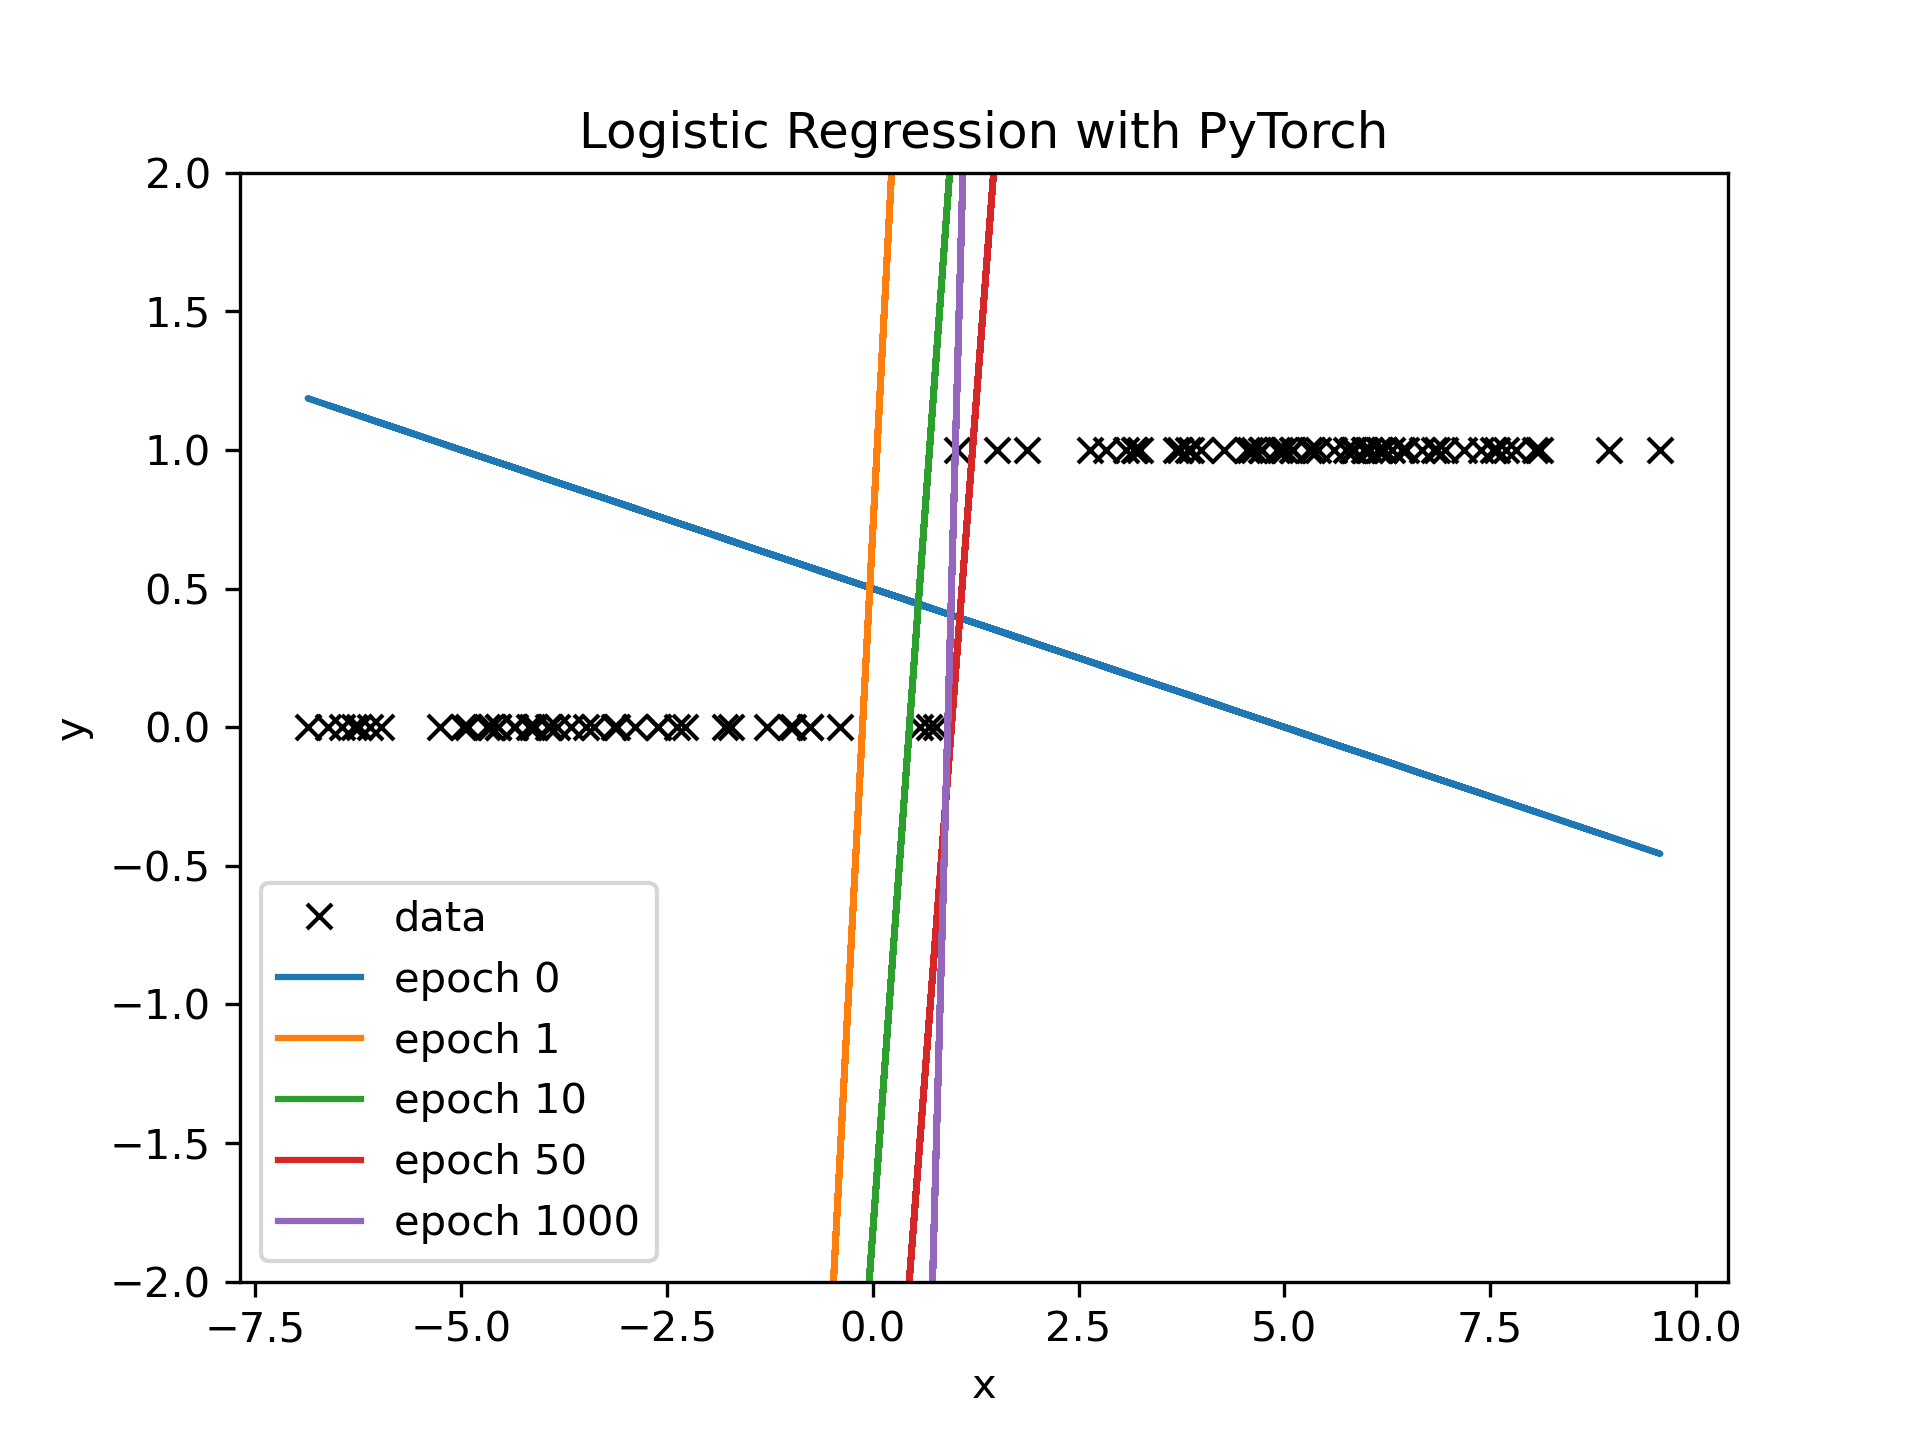
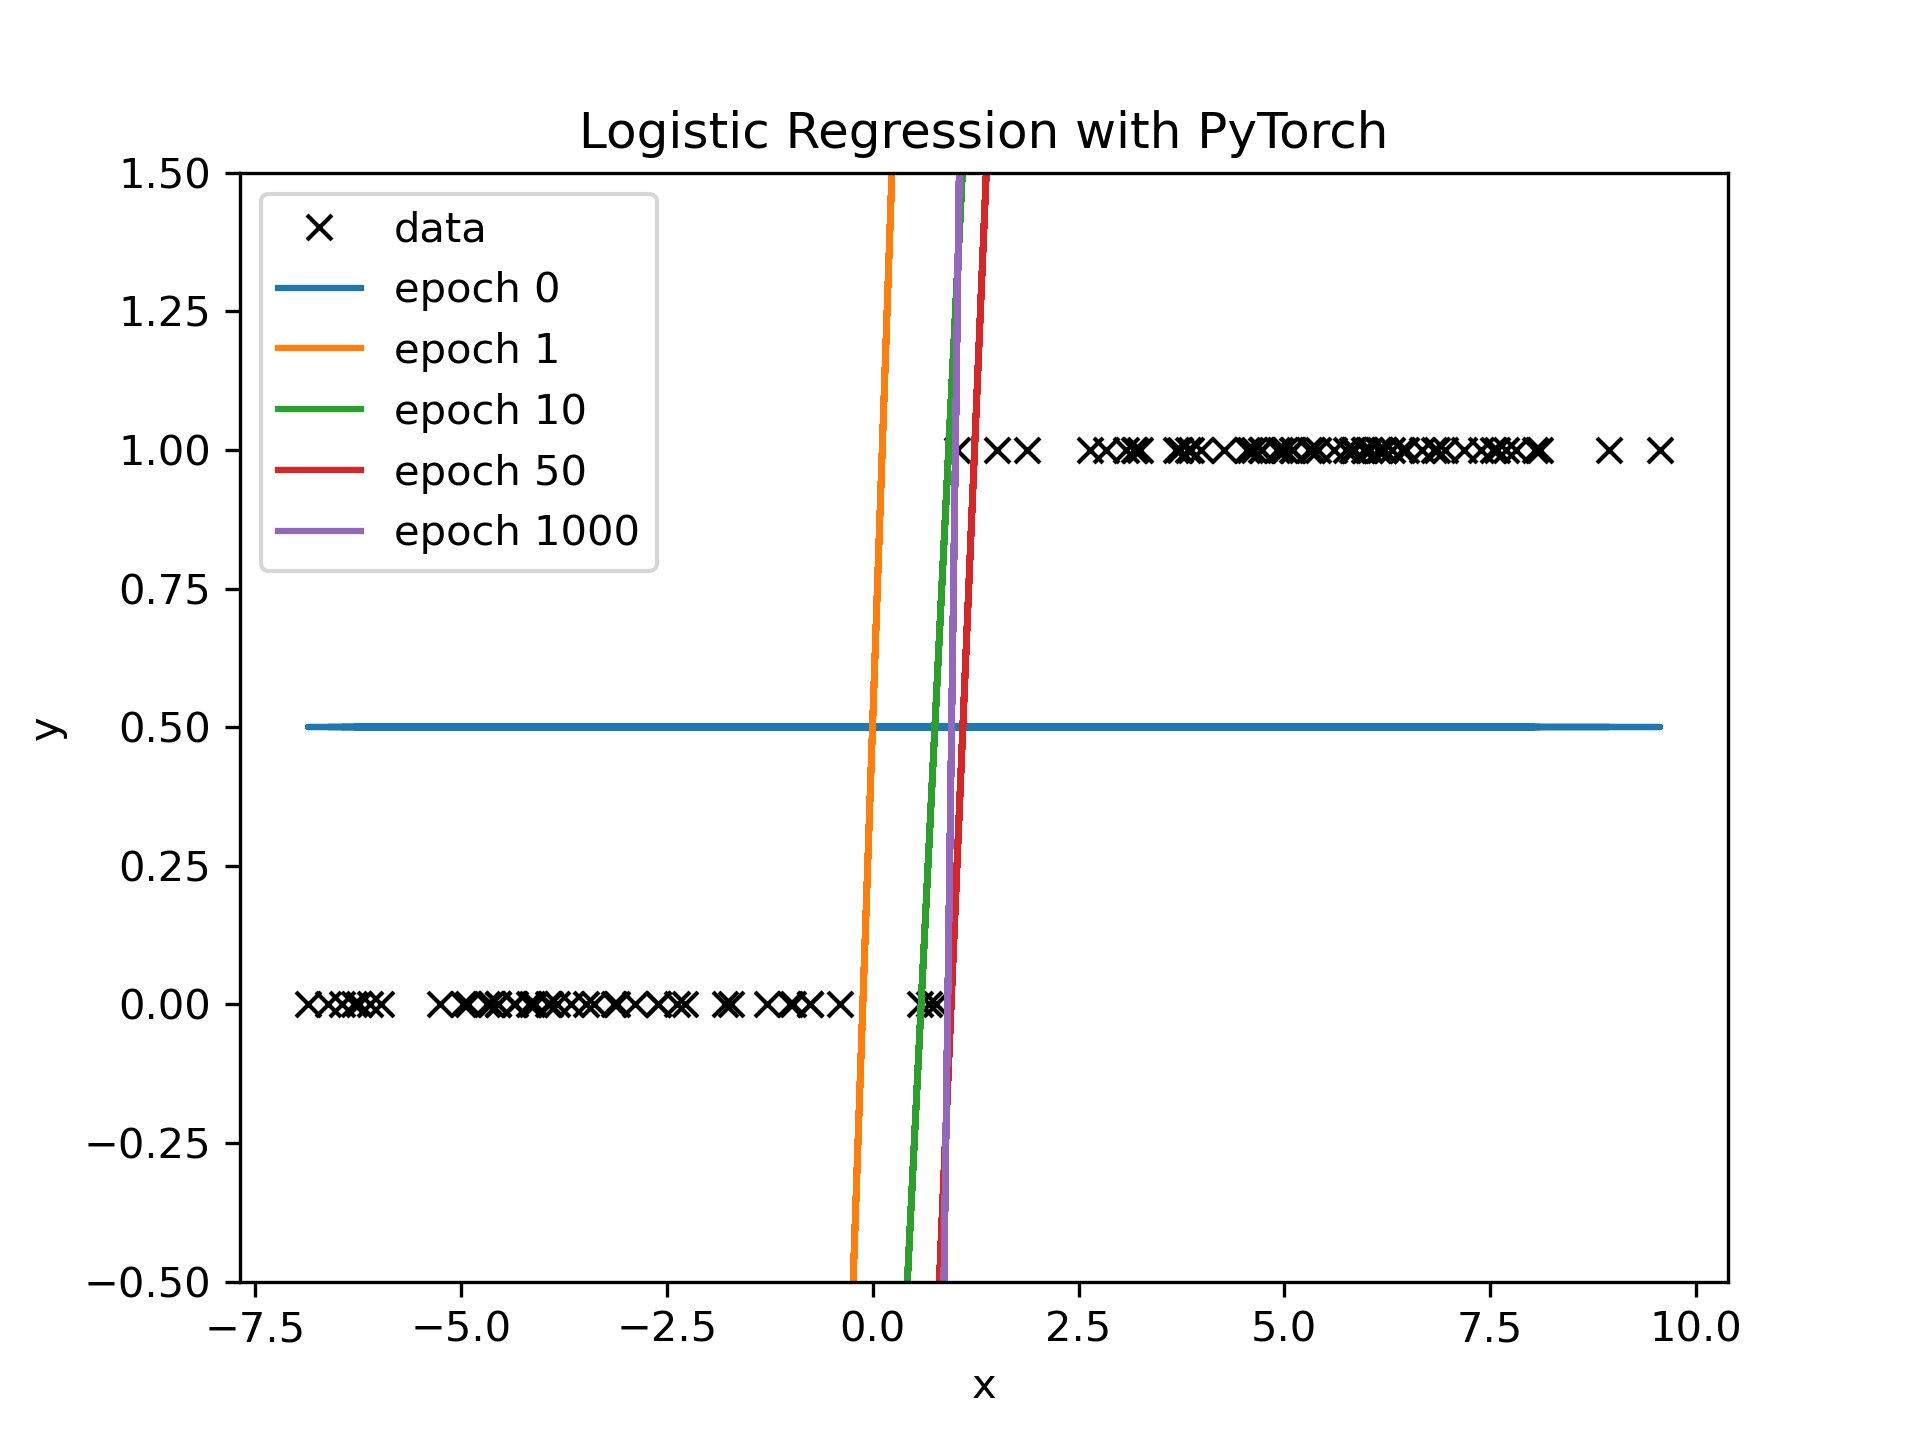
add np.random.seed(0) to LR scripts

diff --git a/LR_noDatasetClass.py b/LR_noDatasetClass.py
@@ -4,6 +4,9 @@ import torch
 import numpy as np
 import matplotlib.pyplot as plt
 
+#set the random seed for the script
+np.random.seed(0)
+
 #create noisy data
 N = 100
 slope = 2
@@ -52,11 +55,11 @@ def backward(loss, lr):
     b.grad.data.zero_()
 
 ##lists to save the parameters and errors
-params = []
-error = []
+PARAMS = []
+ERROR = []
 
 for i in range(iterations):
-    params.append([w.data,b.data,i]) # saving data
+    PARAMS.append([w.data,b.data,i]) # saving data
     
     yhat = forward(x) #major step 1/3
     
@@ -64,23 +67,27 @@ for i in range(iterations):
 
     backward(loss, lr) #major step 3/3    
 
-    error.append(loss.data) #saving data
+    ERROR.append(loss.data) #saving data
 
 #saving data
-params.append([w.data,b.data,iterations])
-error.append(criterion(yhat, y).data)
-params = np.array(params)
-error = np.array(error)
+PARAMS.append([w.data,b.data,iterations])
+ERROR.append(criterion(yhat, y).data)
+PARAMS = np.array(PARAMS)
+ERROR = np.array(ERROR)
 
-#Simple display of the learning 
-print(error)
-
+#Simple display of the learning
 plt.figure()
 plt.plot(x.numpy(), y.numpy(), 'xk', label="data")
-for param in params:
+for param in PARAMS:
     plt.plot(x.numpy(),param[0]*x.numpy()+param[1], label = f'epoch {int(param[2])}')
 plt.legend()
 plt.title("gradient descent with PyTorch")
 plt.xlabel('x')
 plt.ylabel('y')
 plt.savefig('./figs/LR_noDatasetClass.png')
+
+plt.figure()
+plt.plot(ERROR)
+plt.title("gradient descent with PyTorch")
+plt.xlabel('epoch')
+plt.ylabel('loss')

diff --git a/LR_miniBatch_datasetDataLoader.py b/LR_miniBatch_datasetDataLoader.py
@@ -5,6 +5,9 @@ import numpy as np
 import matplotlib.pyplot as plt
 from torch.utils.data import Dataset, DataLoader
 
+#set the random seed for the script
+np.random.seed(0)
+
 #create noisy data
 class noisyLineData(Dataset):
     def __init__(self, N=100, slope=2, intercept=3, stdDev=50):
@@ -62,11 +65,11 @@ def backward(loss, modelParams, lr):
 ##lists to save the parameters and errors
 params = []
 error = []
-error_total = []
+error_epoch = []
 
 for epoch in range(epochs):
     yhat_total = forward(data.x, modelParams)
-    error_total.append(criterion(yhat_total, data.y))
+    error_epoch.append(float(criterion(yhat_total, data.y).data))
 
     params.append([modelParams['w'].data, modelParams['b'].data, epoch]) # saving data    
     # mini-batch or stochastic gradient descent
@@ -87,7 +90,7 @@ error = np.array(error)
 
 #Simple display of the learning 
 print(error)
-print(error_total)
+print(error_epoch)
 
 plt.figure()
 plt.plot(data.x.numpy(), data.y.numpy(), 'xk', label="data")
@@ -101,6 +104,6 @@ plt.savefig('./figs/LR_miniBatch_datasetDataLoader.png')
 
 plt.figure()
 plt.plot(error)
-plt.title("Error")
+plt.title("mini-batch gradient descent with PyTorch")
 plt.xlabel('batch')
-plt.ylabel('error')
+plt.ylabel('Loss')

diff --git a/LogReg_PyTorch.py b/LogReg_PyTorch.py
@@ -51,7 +51,7 @@ class logistic_regression(nn.Module):
 criterion = nn.BCELoss()
 
 model = logistic_regression(1,1)
-model.state_dict()['linear.weight'][0] = -0.1
+model.state_dict()['linear.weight'][0] = 0.0
 model.state_dict()['linear.bias'][0] = 0.5 
 
 optimizer = optim.SGD(model.parameters(), lr = 2)
@@ -80,16 +80,16 @@ def train_model(epochs):
 PARAMS, ERROR = train_model(1000)
 
 #Simple display of the learning 
-plt.figure(dpi=300)
+plt.figure()
 plt.plot(data.x.numpy(), data.y.numpy(), 'xk', label="data")
 for param in PARAMS:
     if param[2] in [0, 1, 10, 50, 1000]:
         plt.plot(data.x.numpy(),param[0]*data.x.numpy()+param[1], label = f'epoch {int(param[2])}')
-plt.legend()
+plt.legend(loc='upper left')
 plt.title("Logistic Regression with PyTorch")
 plt.xlabel('x')
 plt.ylabel('y')
-plt.ylim([-2,2])
+plt.ylim([-0.5,1.5])
 plt.savefig('./figs/LogReg_PyTorch.png',dpi=300)
 
 

diff --git a/LR_miniBatch_PyTorchWay.py b/LR_miniBatch_PyTorchWay.py
@@ -6,6 +6,10 @@ import matplotlib.pyplot as plt
 from torch.utils.data import Dataset, DataLoader
 from torch import nn, optim
 
+#set the random seed for the script
+torch.manual_seed(0)
+
+
 #create noisy data
 class noisyLineData(Dataset):
     def __init__(self, N=100, slope=2, intercept=3, stdDev=50):
@@ -78,6 +82,6 @@ plt.savefig('./figs/LR_miniBatch_PyTorchway.png')
 
 plt.figure()
 plt.plot(ERROR)
-plt.title("Error")
+plt.title("mini-batch gradient descent with PyTorch")
 plt.xlabel('batch')
-plt.ylabel('error')
+plt.ylabel('loss')
